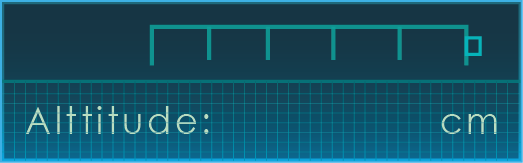
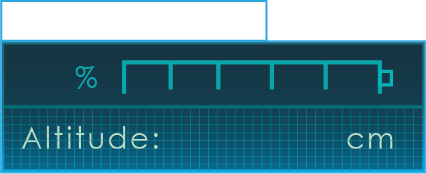
update planeState

diff --git a/FlyingAnalyzeSystem/AR.Drone.WinApp/MyUserControl/PlaneStatePanel.xaml b/FlyingAnalyzeSystem/AR.Drone.WinApp/MyUserControl/PlaneStatePanel.xaml
@@ -10,7 +10,7 @@
 
     <Viewbox Stretch="Fill">
         <Grid>
-            <Image Stretch="Fill" Source="../Image/PlaneStatePage/BackGround.png"/>
+            <Image Source="../Image/PlaneStatePage/BackGround.png"/>
 
             <Grid Margin="0,45,0,0">
                 <Grid.ColumnDefinitions>
@@ -18,13 +18,16 @@
                     <ColumnDefinition Width="8*"/>
                 </Grid.ColumnDefinitions>
 
-                <StackPanel Margin="20,0,0,0" Grid.Column="0" Orientation="Vertical" HorizontalAlignment="Center" VerticalAlignment="Top">
-                    <Grid>
-                        <Image Stretch="Fill" Source="../Image/PlaneStatePage/PlaneStateTitle.png"/>
+                <StackPanel Margin="40,0,0,0" Grid.Column="0" Orientation="Vertical" HorizontalAlignment="Center" VerticalAlignment="Top">
+                    <Grid Height="30">
+                        <Grid.Background>
+                            <ImageBrush ImageSource="../Image/PlaneStatePage/PlaneStateTitle.png"/>
+                        </Grid.Background>
                         <TextBlock Text="PLANE NAME" Foreground="White" VerticalAlignment="Center" Margin="5,0,0,0"/>
                     </Grid>
 
-                    <StackPanel x:Name="_planeItemsStackPanel">
+                    <StackPanel x:Name="_planeItemsStackPanel" Orientation="Vertical">
+
                         <myControl:PlaneItemButton Margin="0,5,0,0"
                                                    NormalImagePath="../Image/PlaneStatePage/PlaneItem.png" 
                                                    DownImagePath="../Image/PlaneStatePage/PlaneItemDown.png"
@@ -70,98 +73,59 @@
                 </StackPanel>
 
                 <StackPanel Grid.Column="1" Margin="5,0,20,0">
-                    <Grid>
-                        <Image Source="../Image/PlaneStatePage/InformationTitle.png"/>
+                    <Grid Height="30">
+                        <Grid.Background>
+                            <ImageBrush ImageSource="../Image/PlaneStatePage/InformationTitle.png"/>
+                        </Grid.Background>
                         <TextBlock Text="INFORMATION" Foreground="White" VerticalAlignment="Center" HorizontalAlignment="Center"/>
                     </Grid>
 
-                    <Grid Grid.Column="1" Margin="0,7,0,0">
-                        <Image Source="../Image/PlaneStatePage/InformationBlock.png"/>
-                        <Grid>
-                            <Grid.RowDefinitions>
-                                <RowDefinition Height="2*"/>
-                                <RowDefinition Height="8*"/>
-                            </Grid.RowDefinitions>
+                    <Grid Height="280" Margin="0,5,0,0">
+                        <Grid.Background>
+                            <ImageBrush ImageSource="../Image/PlaneStatePage/InformationBlock.png"/>
+                        </Grid.Background>
+                        <Grid.ColumnDefinitions>
+                            <ColumnDefinition Width="65*"/>
+                            <ColumnDefinition Width="35*"/>
+                        </Grid.ColumnDefinitions>
 
-                            <Grid Grid.Row="0">
-                                <TextBlock Text="Location :" Foreground="White" Margin="20,20,0,0" HorizontalAlignment="Left" VerticalAlignment="Top"/>
+                        <Grid Grid.Column="0">
+                            <myComboxBox:ImageComboBox x:Name="_comboBox" HorizontalAlignment="Left" VerticalAlignment="Top" Margin="15,12,0,0" Width="240" Height="30"/>
 
-                                <myComboxBox:ImageComboBox x:Name="_comboBox" HorizontalAlignment="Left" VerticalAlignment="Top" Margin="70,11,0,0" Width="160" Height="23"
-                                                           SelectionChanged="OnComboBoxSelectionChanged"/>
-
-                                <myControl:UploadButton VerticalAlignment="Center" HorizontalAlignment="Left" Margin="250,12,0,3" Width="60"
-                                                        NormalImagePath="../Image/PlaneStatePage/Upload.png" 
-                                                        DownImagePath="../Image/PlaneStatePage/UploadDown.png" 
-                                                        HoverImagePath="../Image/PlaneStatePage/Upload.png"
-                                                        OnClick="OnClickUploadButton"/>
-                            </Grid>
-
-                            <Grid Grid.Row="1" Margin="10,0">
-                                <Grid  Margin="10,0,0,10" HorizontalAlignment="Left" x:Name="_mapGrid">
-                                    <Image Stretch="Fill" Source="../Image/PlaneStatePage/MapBackGround.png"/>
-                                    <myControl:MapImageView Width="275" Height="200" Margin="7,7,7,7" x:Name="_mapImage"/>                                    
-                                </Grid>
-
-                                <Grid Margin="305,0,10,10">
-                                    <Grid.RowDefinitions>
-                                        <RowDefinition Height="25*"/>
-                                        <RowDefinition Height="75*"/>
-                                    </Grid.RowDefinitions>
-
-                                    <Grid Grid.Row="0">
-                                        <Image Source="../Image/PlaneStatePage/Battery.png"/>
-                                        <TextBlock Text="323" HorizontalAlignment="Center" VerticalAlignment="Bottom" Foreground="#FAED00" Margin="91,0,57,8"/>
-                                        <Rectangle x:Name="_baterySample" Visibility="Hidden" Height="12" Width="100" HorizontalAlignment="Left" VerticalAlignment="Top" Margin="49,9.5,0,0">
-                                            <Rectangle.Fill>
-                                                <LinearGradientBrush x:Name="_batterySampleBrush">
-                                                    <GradientStop Color="#FF0000" Offset="0"/>
-                                                    <GradientStop Color="#FFFF00" Offset="0.5"/>
-                                                    <GradientStop Color="#00FF00" Offset="1"/>
-                                                </LinearGradientBrush>
-                                            </Rectangle.Fill>
-                                        </Rectangle>
-
-                                        <Rectangle x:Name="_battery" Height="12" Width="100" HorizontalAlignment="Left" VerticalAlignment="Top" Margin="49,9.5,0,0"/>
-                                    </Grid>
-
-                                    <Grid Grid.Row="1">
-                                        <Image Source="../Image/PlaneStatePage/MainCircle.png" HorizontalAlignment="Center" VerticalAlignment="Top" Margin="0,10,0,0"/>
-                                        <Image Source="../Image/PlaneStatePage/AccessoryCircle.png" HorizontalAlignment="Center" VerticalAlignment="Top" Margin="55,40,55,0"/>
-                                        <TextBlock Text="Secs" HorizontalAlignment="Center" VerticalAlignment="Center" Foreground="#FFFCDA" FontSize="8"/>
-
-                                        <myControl:ImageThreeStateButton HorizontalAlignment="Center" VerticalAlignment="Bottom" Margin="6,0,116,20"
-                                                                         NormalImagePath="../Image/PlaneStatePage/LeftControl.png" 
-                                                                         DownImagePath="../Image/PlaneStatePage/LeftControlDown.png" 
-                                                                         HoverImagePath="../Image/PlaneStatePage/LeftControl.png"
-                                                                         OnClick="OnClickLeftButton"/>
-
-                                        <myControl:ImageThreeStateButton HorizontalAlignment="Center" VerticalAlignment="Bottom" Margin="115,0,7,20"
-                                                                         NormalImagePath="../Image/PlaneStatePage/RightControl.png" 
-                                                                         DownImagePath="../Image/PlaneStatePage/RightControlDown.png" 
-                                                                         HoverImagePath="../Image/PlaneStatePage/RightControl.png"
-                                                                         OnClick="OnClickRightButton"/>
-
-                                        <myControl:ImageThreeStateButton HorizontalAlignment="Center" VerticalAlignment="Bottom" Margin="73,0,73,8" 
-                                                                         NormalImagePath="../Image/PlaneStatePage/StopControl.png" 
-                                                                         DownImagePath="../Image/PlaneStatePage/StopControlDown.png" 
-                                                                         HoverImagePath="../Image/PlaneStatePage/StopControl.png"
-                                                                         OnClick="OnClickStopButton"/>
-
-                                        <myControl:ImageThreeStateButton HorizontalAlignment="Center" VerticalAlignment="Bottom" Margin="64,0,64,37" 
-                                                                         NormalImagePath="../Image/PlaneStatePage/ForwardControl.png" 
-                                                                         DownImagePath="../Image/PlaneStatePage/ForwardControlDown.png" 
-                                                                         HoverImagePath="../Image/PlaneStatePage/ForwardControl.png"
-                                                                         OnClick="OnClickForwardButton"/>
-                                    </Grid>
-                                </Grid>
+                            <Grid x:Name="_mapGrid" HorizontalAlignment="Left" VerticalAlignment="Bottom" Height="225" Width="290" Margin="15,0,0,10">
+                                <Grid.Background>
+                                    <ImageBrush ImageSource="../Image/PlaneStatePage/MapBackGround.png"/>
+                                </Grid.Background>
+                                <myControl:MapImageView Width="275" Height="200" x:Name="_mapImage"/>
                             </Grid>
                         </Grid>
+
+                        <Grid Grid.Column="1">
+                            <myControl:UploadButton VerticalAlignment="Top" HorizontalAlignment="Left" Width="60" Height="22"
+                        		NormalImagePath="../Image/PlaneStatePage/Upload.png" 
+                        		DownImagePath="../Image/PlaneStatePage/UploadDown.png" 
+                        		HoverImagePath="../Image/PlaneStatePage/Upload.png"
+                        		OnClick="OnClickUploadButton" Margin="0,17,0,0"/>
+                            <Image Source="../Image/PlaneStatePage/Battery.png" HorizontalAlignment="Left" VerticalAlignment="Top" Height="65" Width="150" Margin="0,47,0,0"/>
+                            <TextBlock Text="Battery &amp; Altitude" HorizontalAlignment="Left" VerticalAlignment="Top" Foreground="White" FontSize="10" Margin="7,48,0,0"/>
+                            <TextBlock Text="323" HorizontalAlignment="Center" VerticalAlignment="Top" Foreground="#FAED00" Margin="0,90,0,0"/>                       
+                            <Rectangle x:Name="_baterySample" Visibility="Hidden" Height="12" Width="89" HorizontalAlignment="Left" VerticalAlignment="Top" Margin="44,69,0,0">
+                                <Rectangle.Fill>
+                                    <LinearGradientBrush x:Name="_batterySampleBrush">
+                                        <GradientStop Color="#FF0000" Offset="0"/>
+                                        <GradientStop Color="#FFFF00" Offset="0.5"/>
+                                        <GradientStop Color="#00FF00" Offset="1"/>
+                                    </LinearGradientBrush>
+                                </Rectangle.Fill>
+                            </Rectangle>
+                            <Rectangle x:Name="_battery" Visibility="Visible" Height="12" Width="89" HorizontalAlignment="Left" VerticalAlignment="Top" Margin="44,69,0,0"/>
+                            <TextBlock Text="100" HorizontalAlignment="Center" VerticalAlignment="Top" Foreground="#00B3B9" FontSize="10" Margin="0,68,137,0"/>
+                        </Grid>
+                        
+                        
                     </Grid>
                 </StackPanel>
             </Grid>
-            <Slider x:Name="bbb" HorizontalAlignment="Left" Margin="269,352,0,0" VerticalAlignment="Top" Width="123" Minimum="0" Maximum="100" ValueChanged="Slider_ValueChanged"/>
-            <Image Margin="499,315,92,19" x:Name="sh" RenderTransformOrigin="0.407,0.471">
-            </Image>
         </Grid>
     </Viewbox>
 

diff --git a/FlyingAnalyzeSystem/AR.Drone.WinApp/MyUserControl/PlaneStatePanel.xaml.cs b/FlyingAnalyzeSystem/AR.Drone.WinApp/MyUserControl/PlaneStatePanel.xaml.cs
@@ -4,6 +4,7 @@ using Microsoft.Win32;
 using System;
 using System.Collections.Generic;
 using System.Collections.ObjectModel;
+using System.ComponentModel;
 using System.Data;
 using System.Diagnostics;
 using System.IO;
@@ -25,18 +26,39 @@ namespace AR.Drone.WinApp.MyUserControl
     /// <summary>
     /// Interaction logic for PlaneStatePanel.xaml
     /// </summary>
-    public partial class PlaneStatePanel : UserControl
+    public partial class PlaneStatePanel : UserControl,INotifyPropertyChanged
     {
-        private ObservableCollection<ImageComboBoxItemProperty> _comboBoxSource = new ObservableCollection<ImageComboBoxItemProperty>();
+        public event PropertyChangedEventHandler PropertyChanged = null;
+        public void OnPropertyChanged(String propertyName)
+        {
+            if (PropertyChanged != null)
+            {
+                PropertyChanged(this, new PropertyChangedEventArgs(propertyName));
+            }
+        }
+
+        private ObservableCollection<ImageComboBoxItemProperty> _itemSource = new ObservableCollection<ImageComboBoxItemProperty>();
+        public ObservableCollection<ImageComboBoxItemProperty> ComboBoxItemSource
+        {
+            set
+            {
+                _itemSource = value;
+                OnPropertyChanged("ComboBoxItemSource");
+            }
+            get
+            {
+                return _itemSource;
+            }
+        }
 
         public PlaneStatePanel()
         {
             InitializeComponent();
-            _comboBoxSource = _comboBox.ImageComboBoxItemSource;
-            _comboBoxSource.Add(new ImageComboBoxItemProperty() { ItemText="123"});
+            /*_comboBox.ImageComboBoxItemSource = ComboBoxItemSource;
+            ComboBoxItemSource.Add(new ImageComboBoxItemProperty() { ItemText = "123" });*/
         }
 
-        public void OnClickForwardButton()
+        /*public void OnClickForwardButton()
         {
             Debug.WriteLine("OnClickForwardButton");
         }
@@ -54,7 +76,7 @@ namespace AR.Drone.WinApp.MyUserControl
         public void OnClickLeftButton()
         {
             Debug.WriteLine("OnClickLeftButton");
-        }
+        }*/
 
         public void OnClickPlaneItemButton(object sender)
         {
@@ -76,7 +98,7 @@ namespace AR.Drone.WinApp.MyUserControl
                 }
             }
         }
-
+        /*
         public void SetBattery(double rate)
         {
             _battery.Width = 100 * rate;
@@ -129,19 +151,15 @@ namespace AR.Drone.WinApp.MyUserControl
             return color;
         }
 
-        private void Slider_ValueChanged(object sender, RoutedPropertyChangedEventArgs<double> e)
-        {
-            SetBattery(bbb.Value / 100.0);
-        }
 
         private void OnComboBoxSelectionChanged(object sender, SelectionChangedEventArgs e)
         {
 
-        }
+        }*/
 
         private void OnClickUploadButton()
         {
-            DataSet data=Commands.GetFloorInformation();
+           /* DataSet data=Commands.GetFloorInformation();
             int rows = data.Tables[0].Rows.Count;
             for (int i = 0; i < rows; i++) 
             {
@@ -165,7 +183,7 @@ namespace AR.Drone.WinApp.MyUserControl
                 _mapImage.Initialize();
                 _mapImage.ImagePath=new BitmapImage(new Uri(dialog.FileName,UriKind.Absolute));
                 Commands.RegistFloor(dialog.FileName);
-            }
+            }*/
         }
     }
 }

diff --git a/FlyingAnalyzeSystem/AR.Drone.WinApp/Program.cs b/FlyingAnalyzeSystem/AR.Drone.WinApp/Program.cs
@@ -30,7 +30,7 @@ namespace AR.Drone.WinApp
 
             Application.EnableVisualStyles();
             Application.SetCompatibleTextRenderingDefault(false);
-            Application.Run(new LearnForm());
+            Application.Run(new PlaneStateForm());
         }
     }
 }
